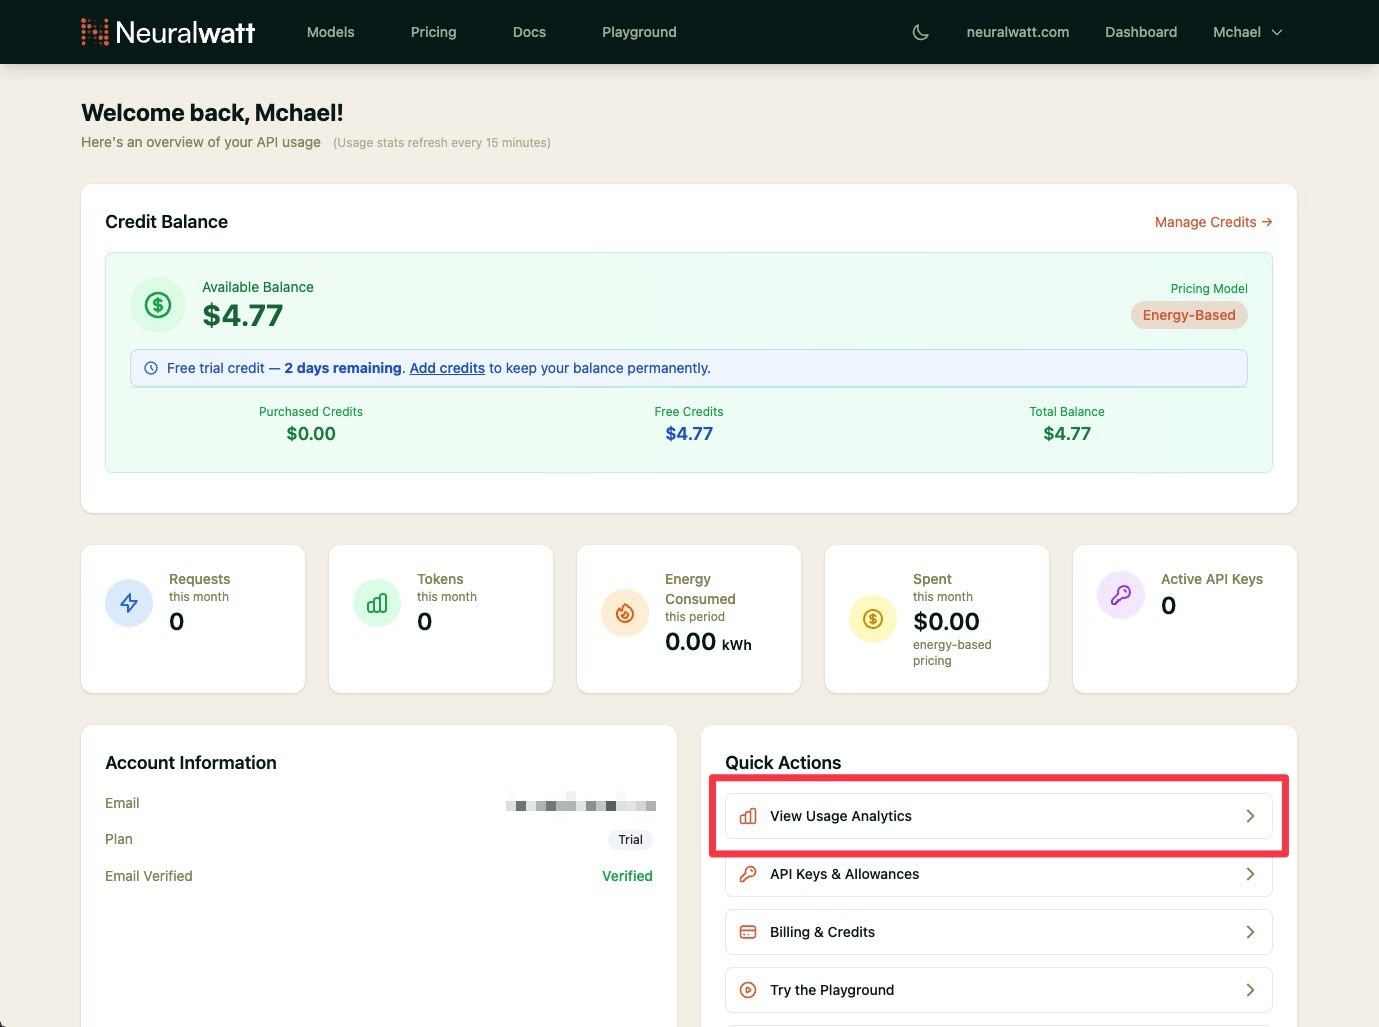
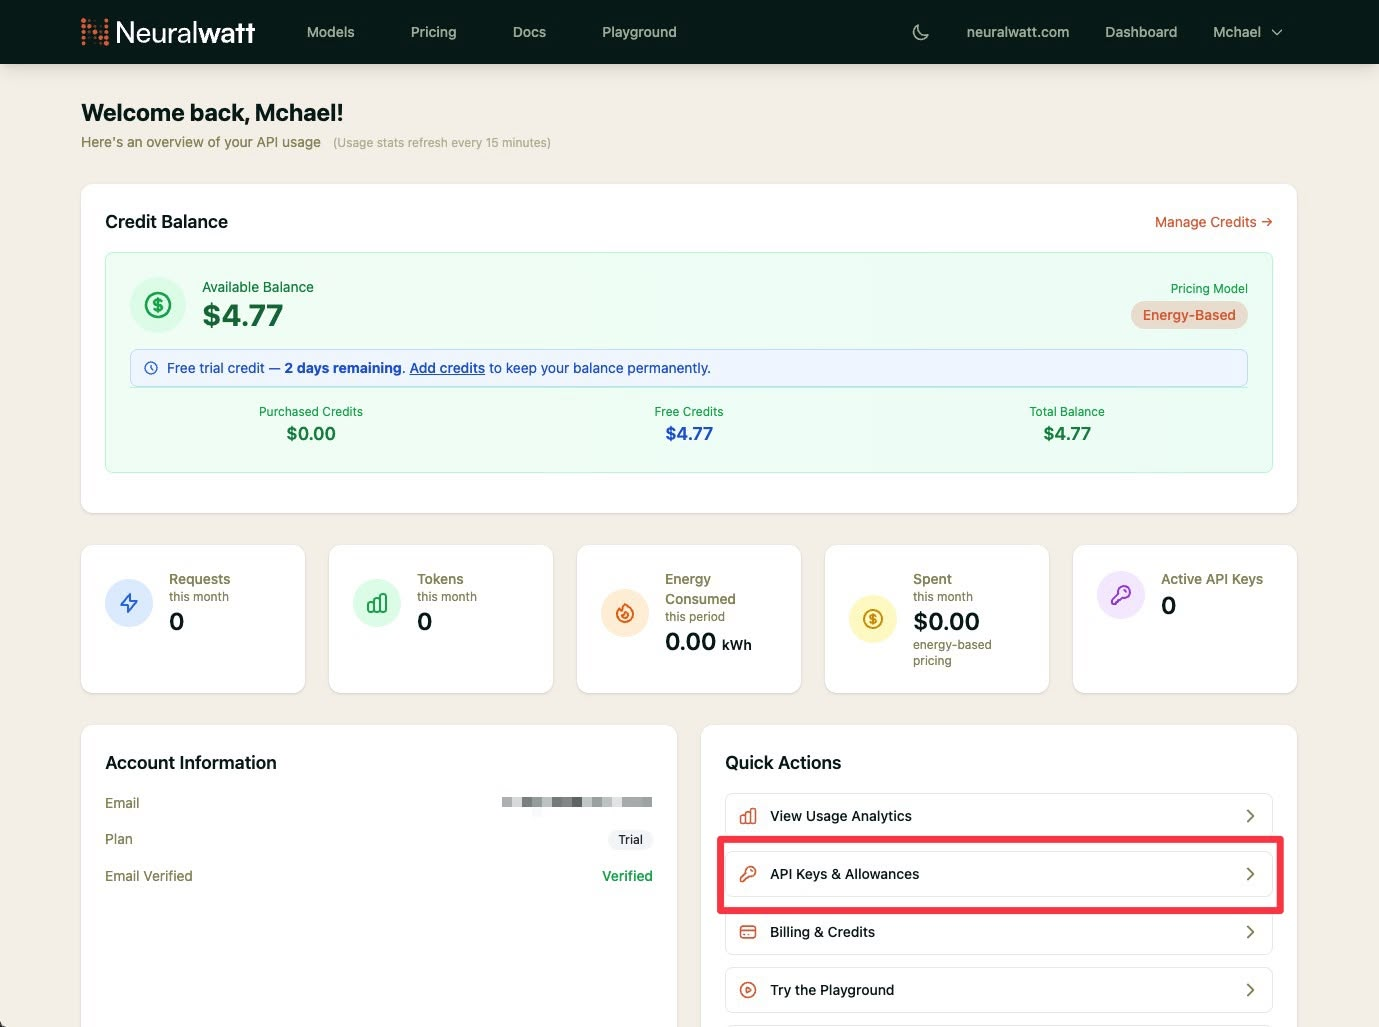
Remove outdated links from workshop guides in multiple languages to streamline content and improve user experience.

Changed region(s): [[0.4989, 0.7478, 0.9355, 0.9036], [0.3742, 0.779, 0.4677, 0.8101]]

diff --git a/src/content/ar.html b/src/content/ar.html
@@ -33,8 +33,6 @@
 
       <div class="btn-row">
         <a class="btn btn-primary" href="https://opencode.ai/download" target="_blank" rel="noopener noreferrer">تنزيل OpenCode Desktop</a>
-        <a class="btn btn-secondary" href="https://opencode.ai/" target="_blank" rel="noopener noreferrer">حول OpenCode</a>
-        <a class="btn btn-secondary" href="https://opencode.ai/docs" target="_blank" rel="noopener noreferrer">التوثيق</a>
       </div>
 
       <h3>macOS</h3>
@@ -71,7 +69,6 @@
       <div class="btn-row">
         <a class="btn btn-primary" href="https://portal.neuralwatt.com/auth/register" target="_blank" rel="noopener noreferrer">إنشاء حساب مجاني</a>
         <a class="btn btn-secondary" href="https://portal.neuralwatt.com/" target="_blank" rel="noopener noreferrer">بوابة Neuralwatt</a>
-        <a class="btn btn-secondary" href="https://portal.neuralwatt.com/docs/integrations/opencode" target="_blank" rel="noopener noreferrer">توثيق تكامل OpenCode</a>
       </div>
 
       <h3>إنشاء مفتاح API</h3>
@@ -191,7 +188,6 @@
       <div class="btn-row">
         <a class="btn btn-primary" href="https://github.com/signup" target="_blank" rel="noopener noreferrer">التسجيل في GitHub</a>
         <a class="btn btn-secondary" href="https://github.com/login" target="_blank" rel="noopener noreferrer">تسجيل الدخول</a>
-        <a class="btn btn-secondary" href="https://docs.github.com/en/get-started/signing-up-for-github" target="_blank" rel="noopener noreferrer">دليل التسجيل في GitHub</a>
       </div>
 
       <h3>التسجيل</h3>
@@ -242,7 +238,6 @@
       <div class="btn-row">
         <a class="btn btn-primary" href="https://vercel.com/signup" target="_blank" rel="noopener noreferrer">التسجيل في Vercel</a>
         <a class="btn btn-secondary" href="https://vercel.com/login" target="_blank" rel="noopener noreferrer">تسجيل الدخول</a>
-        <a class="btn btn-secondary" href="https://vercel.com/docs" target="_blank" rel="noopener noreferrer">توثيق Vercel</a>
       </div>
 
       <h3>التسجيل (موصى به: استخدم GitHub)</h3>

diff --git a/src/content/en.html b/src/content/en.html
@@ -33,8 +33,6 @@
 
       <div class="btn-row">
         <a class="btn btn-primary" href="https://opencode.ai/download" target="_blank" rel="noopener noreferrer">Download OpenCode Desktop</a>
-        <a class="btn btn-secondary" href="https://opencode.ai/" target="_blank" rel="noopener noreferrer">About OpenCode</a>
-        <a class="btn btn-secondary" href="https://opencode.ai/docs" target="_blank" rel="noopener noreferrer">Documentation</a>
       </div>
 
       <h3>macOS</h3>
@@ -71,7 +69,6 @@
       <div class="btn-row">
         <a class="btn btn-primary" href="https://portal.neuralwatt.com/auth/register" target="_blank" rel="noopener noreferrer">Create free account</a>
         <a class="btn btn-secondary" href="https://portal.neuralwatt.com/" target="_blank" rel="noopener noreferrer">Neuralwatt portal</a>
-        <a class="btn btn-secondary" href="https://portal.neuralwatt.com/docs/integrations/opencode" target="_blank" rel="noopener noreferrer">OpenCode integration docs</a>
       </div>
 
       <h3>Create your API key</h3>
@@ -191,7 +188,6 @@
       <div class="btn-row">
         <a class="btn btn-primary" href="https://github.com/signup" target="_blank" rel="noopener noreferrer">Sign up for GitHub</a>
         <a class="btn btn-secondary" href="https://github.com/login" target="_blank" rel="noopener noreferrer">Sign in</a>
-        <a class="btn btn-secondary" href="https://docs.github.com/en/get-started/signing-up-for-github" target="_blank" rel="noopener noreferrer">GitHub signup guide</a>
       </div>
 
       <h3>Register</h3>
@@ -242,7 +238,6 @@
       <div class="btn-row">
         <a class="btn btn-primary" href="https://vercel.com/signup" target="_blank" rel="noopener noreferrer">Sign up for Vercel</a>
         <a class="btn btn-secondary" href="https://vercel.com/login" target="_blank" rel="noopener noreferrer">Sign in</a>
-        <a class="btn btn-secondary" href="https://vercel.com/docs" target="_blank" rel="noopener noreferrer">Vercel docs</a>
       </div>
 
       <h3>Register (recommended: use GitHub)</h3>

diff --git a/src/content/fi.html b/src/content/fi.html
@@ -33,8 +33,6 @@
 
       <div class="btn-row">
         <a class="btn btn-primary" href="https://opencode.ai/download" target="_blank" rel="noopener noreferrer">Lataa OpenCode Desktop</a>
-        <a class="btn btn-secondary" href="https://opencode.ai/" target="_blank" rel="noopener noreferrer">Tietoa OpenCodesta</a>
-        <a class="btn btn-secondary" href="https://opencode.ai/docs" target="_blank" rel="noopener noreferrer">Dokumentaatio</a>
       </div>
 
       <h3>macOS</h3>
@@ -71,7 +69,6 @@
       <div class="btn-row">
         <a class="btn btn-primary" href="https://portal.neuralwatt.com/auth/register" target="_blank" rel="noopener noreferrer">Luo ilmainen tili</a>
         <a class="btn btn-secondary" href="https://portal.neuralwatt.com/" target="_blank" rel="noopener noreferrer">Neuralwatt-portaali</a>
-        <a class="btn btn-secondary" href="https://portal.neuralwatt.com/docs/integrations/opencode" target="_blank" rel="noopener noreferrer">OpenCode-integraatio</a>
       </div>
 
       <h3>Luo API-avain</h3>
@@ -191,7 +188,6 @@
       <div class="btn-row">
         <a class="btn btn-primary" href="https://github.com/signup" target="_blank" rel="noopener noreferrer">Rekisteröidy GitHubiin</a>
         <a class="btn btn-secondary" href="https://github.com/login" target="_blank" rel="noopener noreferrer">Kirjaudu sisään</a>
-        <a class="btn btn-secondary" href="https://docs.github.com/en/get-started/signing-up-for-github" target="_blank" rel="noopener noreferrer">GitHubin rekisteröitymisopas</a>
       </div>
 
       <h3>Rekisteröidy</h3>
@@ -242,7 +238,6 @@
       <div class="btn-row">
         <a class="btn btn-primary" href="https://vercel.com/signup" target="_blank" rel="noopener noreferrer">Rekisteröidy Verceliin</a>
         <a class="btn btn-secondary" href="https://vercel.com/login" target="_blank" rel="noopener noreferrer">Kirjaudu sisään</a>
-        <a class="btn btn-secondary" href="https://vercel.com/docs" target="_blank" rel="noopener noreferrer">Vercel-dokumentaatio</a>
       </div>
 
       <h3>Rekisteröidy (suositus: käytä GitHubia)</h3>

diff --git a/src/content/sv.html b/src/content/sv.html
@@ -33,8 +33,6 @@
 
       <div class="btn-row">
         <a class="btn btn-primary" href="https://opencode.ai/download" target="_blank" rel="noopener noreferrer">Ladda ner OpenCode Desktop</a>
-        <a class="btn btn-secondary" href="https://opencode.ai/" target="_blank" rel="noopener noreferrer">Om OpenCode</a>
-        <a class="btn btn-secondary" href="https://opencode.ai/docs" target="_blank" rel="noopener noreferrer">Dokumentation</a>
       </div>
 
       <h3>macOS</h3>
@@ -71,7 +69,6 @@
       <div class="btn-row">
         <a class="btn btn-primary" href="https://portal.neuralwatt.com/auth/register" target="_blank" rel="noopener noreferrer">Skapa gratiskonto</a>
         <a class="btn btn-secondary" href="https://portal.neuralwatt.com/" target="_blank" rel="noopener noreferrer">Neuralwatt-portalen</a>
-        <a class="btn btn-secondary" href="https://portal.neuralwatt.com/docs/integrations/opencode" target="_blank" rel="noopener noreferrer">OpenCode-integration</a>
       </div>
 
       <h3>Skapa din API-nyckel</h3>
@@ -191,7 +188,6 @@
       <div class="btn-row">
         <a class="btn btn-primary" href="https://github.com/signup" target="_blank" rel="noopener noreferrer">Registrera dig på GitHub</a>
         <a class="btn btn-secondary" href="https://github.com/login" target="_blank" rel="noopener noreferrer">Logga in</a>
-        <a class="btn btn-secondary" href="https://docs.github.com/en/get-started/signing-up-for-github" target="_blank" rel="noopener noreferrer">GitHub-registreringsguide</a>
       </div>
 
       <h3>Registrera dig</h3>
@@ -242,7 +238,6 @@
       <div class="btn-row">
         <a class="btn btn-primary" href="https://vercel.com/signup" target="_blank" rel="noopener noreferrer">Registrera dig på Vercel</a>
         <a class="btn btn-secondary" href="https://vercel.com/login" target="_blank" rel="noopener noreferrer">Logga in</a>
-        <a class="btn btn-secondary" href="https://vercel.com/docs" target="_blank" rel="noopener noreferrer">Vercel-dokumentation</a>
       </div>
 
       <h3>Registrera dig (rekommenderat: använd GitHub)</h3>

diff --git a/docs/en-workshop-guide.html b/docs/en-workshop-guide.html
@@ -589,8 +589,6 @@
 
       <div class="btn-row">
         <a class="btn btn-primary" href="https://opencode.ai/download" target="_blank" rel="noopener noreferrer">Download OpenCode Desktop</a>
-        <a class="btn btn-secondary" href="https://opencode.ai/" target="_blank" rel="noopener noreferrer">About OpenCode</a>
-        <a class="btn btn-secondary" href="https://opencode.ai/docs" target="_blank" rel="noopener noreferrer">Documentation</a>
       </div>
 
       <h3>macOS</h3>
@@ -627,7 +625,6 @@
       <div class="btn-row">
         <a class="btn btn-primary" href="https://portal.neuralwatt.com/auth/register" target="_blank" rel="noopener noreferrer">Create free account</a>
         <a class="btn btn-secondary" href="https://portal.neuralwatt.com/" target="_blank" rel="noopener noreferrer">Neuralwatt portal</a>
-        <a class="btn btn-secondary" href="https://portal.neuralwatt.com/docs/integrations/opencode" target="_blank" rel="noopener noreferrer">OpenCode integration docs</a>
       </div>
 
       <h3>Create your API key</h3>

diff --git a/docs/fi-workshop-guide.html b/docs/fi-workshop-guide.html
@@ -589,8 +589,6 @@
 
       <div class="btn-row">
         <a class="btn btn-primary" href="https://opencode.ai/download" target="_blank" rel="noopener noreferrer">Lataa OpenCode Desktop</a>
-        <a class="btn btn-secondary" href="https://opencode.ai/" target="_blank" rel="noopener noreferrer">Tietoa OpenCodesta</a>
-        <a class="btn btn-secondary" href="https://opencode.ai/docs" target="_blank" rel="noopener noreferrer">Dokumentaatio</a>
       </div>
 
       <h3>macOS</h3>
@@ -627,7 +625,6 @@
       <div class="btn-row">
         <a class="btn btn-primary" href="https://portal.neuralwatt.com/auth/register" target="_blank" rel="noopener noreferrer">Luo ilmainen tili</a>
         <a class="btn btn-secondary" href="https://portal.neuralwatt.com/" target="_blank" rel="noopener noreferrer">Neuralwatt-portaali</a>
-        <a class="btn btn-secondary" href="https://portal.neuralwatt.com/docs/integrations/opencode" target="_blank" rel="noopener noreferrer">OpenCode-integraatio</a>
       </div>
 
       <h3>Luo API-avain</h3>

diff --git a/docs/sv-workshop-guide.html b/docs/sv-workshop-guide.html
@@ -589,8 +589,6 @@
 
       <div class="btn-row">
         <a class="btn btn-primary" href="https://opencode.ai/download" target="_blank" rel="noopener noreferrer">Ladda ner OpenCode Desktop</a>
-        <a class="btn btn-secondary" href="https://opencode.ai/" target="_blank" rel="noopener noreferrer">Om OpenCode</a>
-        <a class="btn btn-secondary" href="https://opencode.ai/docs" target="_blank" rel="noopener noreferrer">Dokumentation</a>
       </div>
 
       <h3>macOS</h3>
@@ -627,7 +625,6 @@
       <div class="btn-row">
         <a class="btn btn-primary" href="https://portal.neuralwatt.com/auth/register" target="_blank" rel="noopener noreferrer">Skapa gratiskonto</a>
         <a class="btn btn-secondary" href="https://portal.neuralwatt.com/" target="_blank" rel="noopener noreferrer">Neuralwatt-portalen</a>
-        <a class="btn btn-secondary" href="https://portal.neuralwatt.com/docs/integrations/opencode" target="_blank" rel="noopener noreferrer">OpenCode-integration</a>
       </div>
 
       <h3>Skapa din API-nyckel</h3>